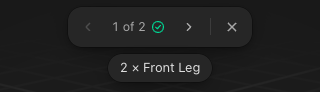
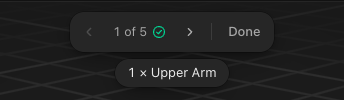
Leave Build Along with Done, like every other mode
Build Along's bar ended in a × titled Close, while Measure, Annotate,
Print, Sculpt, Sketch, Tries and a running Case are all left with Done
(Esc). The canvas bars' Done now comes from one IslandDone in the design
system, used by Measure, Annotate and Build Along, and the guides and the
Build Along help article say so.

diff --git a/src/design-system/FloatingIsland.tsx b/src/design-system/FloatingIsland.tsx
@@ -1,4 +1,6 @@
 import React from 'react';
+import { Button } from './Button';
+import type { TooltipSide } from './Tooltip';
 
 export interface FloatingIslandProps extends React.HTMLAttributes<HTMLDivElement> {
   children: React.ReactNode;
@@ -19,3 +21,24 @@ export const FloatingIsland: React.FC<FloatingIslandProps> = ({ children, classN
 };
 
 export const IslandDivider: React.FC = () => <div className="w-px h-5 bg-white/[0.1] mx-1 shrink-0" aria-hidden />;
+
+export const IslandDone: React.FC<{ onDone: () => void; tooltipSide?: TooltipSide; className?: string }> = ({
+  onDone,
+  tooltipSide = 'top',
+  className = '',
+}) => (
+  <>
+    <IslandDivider />
+    <Button
+      size="sm"
+      variant="ghost"
+      className={className}
+      onClick={onDone}
+      title="Done"
+      shortcut="Esc"
+      tooltipSide={tooltipSide}
+    >
+      Done
+    </Button>
+  </>
+);

diff --git a/src/components/build/BuildAlongBar.tsx b/src/components/build/BuildAlongBar.tsx
@@ -3,10 +3,9 @@ import {
   ChevronLeftIcon,
   ChevronRightIcon,
   CircleCheckIcon,
-  CloseIcon,
   FloatingIsland,
   IconButton,
-  IslandDivider,
+  IslandDone,
   Spinner,
 } from '../../design-system';
 import type { BuildAlong } from '../../workspace/useBuildAlong';
@@ -68,15 +67,7 @@ export const BuildAlongBar: React.FC<BuildAlongBarProps> = ({ buildAlong, active
             />
           </>
         )}
-        <IslandDivider />
-        <IconButton
-          size="sm"
-          title="Close"
-          shortcut="Esc"
-          tooltipSide="bottom"
-          icon={<CloseIcon className="w-4 h-4" />}
-          onClick={buildAlong.close}
-        />
+        <IslandDone onDone={buildAlong.close} tooltipSide="bottom" />
       </FloatingIsland>
       {!!step?.callout.length && (
         <ul className="flex flex-wrap justify-center gap-2 max-w-[720px]">

diff --git a/src/components/MeasureToolbar.tsx b/src/components/MeasureToolbar.tsx
@@ -3,10 +3,10 @@ import { fromFeetInches, heightsInFeet, toFeetInches } from '../three/viewport/m
 import type { FigurePlacements, MeasureKind } from '../three/viewport/types';
 import type { MeasureUnit } from '../types/robotics';
 import {
-  Button,
   FloatingIsland,
   IconButton,
   IslandDivider,
+  IslandDone,
   NumberInput,
   DogIcon,
   HumanIcon,
@@ -113,9 +113,6 @@ export const MeasureToolbar: React.FC<MeasureToolbarProps> = ({
         <HeightField heightMm={humanHeightMm} unit={unit} onChange={onHumanHeight} />
       </>
     )}
-    <IslandDivider />
-    <Button size="sm" variant="ghost" onClick={onDone} title="Done" shortcut="Esc" tooltipSide="top">
-      Done
-    </Button>
+    <IslandDone onDone={onDone} />
   </FloatingIsland>
 );

diff --git a/src/workspace/MarkBar.tsx b/src/workspace/MarkBar.tsx
@@ -1,9 +1,9 @@
 import type React from 'react';
 import {
-  Button,
   FloatingIsland,
   IconButton,
   IslandDivider,
+  IslandDone,
   DeleteIcon,
   EraserIcon,
   MarkerIcon,
@@ -87,18 +87,7 @@ export function MarkBar({ marks, onDone }: MarkBarProps) {
           <MarkActions marks={marks} />
         </>
       )}
-      <IslandDivider />
-      <Button
-        size="sm"
-        variant="ghost"
-        className="rounded-full"
-        onClick={onDone}
-        title="Done"
-        shortcut="Esc"
-        tooltipSide="top"
-      >
-        Done
-      </Button>
+      <IslandDone onDone={onDone} className="rounded-full" />
     </FloatingIsland>
   );
 }

diff --git a/docs/guide/build.md b/docs/guide/build.md
@@ -77,7 +77,7 @@ The Build tab (right panel) and the agent's build tools turn a model into someth
     - **Buy All** (`cart.ts`, `bomCart`) fills one Amazon cart from the list: `/gp/aws/cart/add.html` with numbered `ASIN.n` / `Quantity.n` pairs, in line order, for every line with units left to buy and an ASIN (a checked listing's, else a catalog or sourced product link on amazon.com). Quantity is packs of the units left to buy, rounded up: the checked listing's pack size, else one piece (a 1,000 g spool for filament), so 6 servos sold in pairs are 3 and 13 screws sold by the hundred are 1. A line with no ASIN goes to its store instead: a checked or sourced listing elsewhere, else the list price's store page, grouped under the store's host name below Buy All, one item per line, since stores take no shared cart link. Only https links count, an ASIN must pass `parseAsin`, and the cart is always built on amazon.com, so a forged ASIN or a lookalike host never reaches it (§0h). Lines left with no link keep their row link (an Amazon search). Supplies join the cart only when they have a product link (the ones the agent sources); a catalog supply's search stays a search. Buy All is in ⌘K too (listed while the cart has an ASIN). It opens through `openLink` (`utils/openLink.ts`), the app's one external-link path: the system browser on desktop, a new tab in the web demo. No account and no affiliate tag.
   - **Build guide** (`GuideSection`, `src/guide/`), after the bill of materials: a step-by-step assembly PDF, made with Make Guide (off until the scene has built parts). Making one runs in a worker (`guide.worker.ts`; `generateGuide` packs the parts, the worker measures contacts, plans, draws and writes the HTML, the main thread saves the PDF), so the app stays responsive and you can keep working; a toast with Open says when it's done. While it runs, the card keeps its cover (the new cover replaces it as soon as it's drawn), shows the step being drawn, the time left once it can be estimated, and Stop. A made guide offers Open; an out-of-date one says so in amber and adds Update. ⌘K has the same three as Make Build Guide, Open Build Guide and Update Build Guide (§11). There's no Regenerate: a guide reads Out of date whenever a redraw could come back different. That's when its fingerprint changes (`guideFingerprint`: the title, material, infill as printed on the front pages, built parts, joints and `GUIDE_VERSION`), or when its order search stopped at the 20 s limit (`orderTimedOut` on the record), so a later run may check the steps that say “Order not checked”. Bump `GUIDE_VERSION` in any change to the planner, the drawings or item names that changes what a made guide shows, so every guide redraws. Every scene with built parts keeps a current guide (`useGuideAutoUpdate`, Settings ▸ Build ▸ Build guide ▸ Update automatically, on by default): 15 s after the guide goes out of date, while no agent in the scene is working, it makes or updates the guide quietly, with no toast on success or failure. Background runs go one at a time across tabs. Stop, a failed run or another timed-out order search leaves that version alone until the scene changes again; opening another scene in the tab cancels a run. Steps follow the order `check_assembly` proves (`provenOrder.ts`); parts the planner couldn't place come first by the heuristic, and their steps say “Order not checked”.
     - **Open** (the cover, the Open button, the toast, the agent's guide link) shows the guide in the app (`GuideViewer`), not the system PDF viewer. The HTML the PDF is printed from is kept beside it (`library/guides/<id>.html`, read with `guide:html`), parsed into pages, each in its own shadow root with one shared stylesheet (`guide/viewer/`), and prefetched at idle. A guide with no saved HTML is regenerated, then opened; Open PDF and Show in Finder regenerate a PDF that was moved or deleted the same way (`withPdf`, which checks `guide:exists` first), so no error sends anyone to a button; if the system still can't open or show the PDF, a toast says so. The cover thumbnail flies into the first page on a spring (`springEasing.ts` turns a spring into a CSS `linear()` easing), keeping the thumbnail's tilt, while the next pages rise in behind it; closing flies the page nearest the centre back into the thumbnail. Pages fit the window height; pinch, ⌘-scroll or − / + / 0 zoom about the pointer, ← / → and the toolbar's arrows turn pages, Esc or the × at the top right closes. The toolbar floats at the bottom: Previous page, “3 of 60”, Next page, Zoom out, Zoom in, Build Along, Show in Finder, Open PDF.
-    - **Build Along** (`useBuildAlong`, `guide/buildAlong.ts`, `build/BuildAlongBar.tsx`) plays the guide on the canvas one step at a time. It opens from the viewer's toolbar and ⌘K (listed while the scene has built parts). It reads the plan the PDF was drawn from: `useBuildGuide` keeps the last generated `GuidePlan` with its `guideFingerprint`, and `currentPlan` regenerates first when the scene has changed since (the bar shows the run's progress meanwhile). There is no second planner. `buildAlongSteps` turns each step into what the canvas shows: every part placed so far plus the step's context (so the shown set only grows and ends at every built part), the step's moves and arrows, its callout counts with the PDF's item names (“4 × M3 × 6 Socket Head Screw”), and a label on each servo the step adds, with its joint's name and bus ID from `servoLayout` (“Shoulder lift, ID 2”), the numbering the joint map and Operate's Connect use. ← / → step, orbit stays free, Esc closes and puts the camera back where it was; parts, visibility and selection are never edited. While it's open the workspace's other keys are off.
+    - **Build Along** (`useBuildAlong`, `guide/buildAlong.ts`, `build/BuildAlongBar.tsx`) plays the guide on the canvas one step at a time. It opens from the viewer's toolbar and ⌘K (listed while the scene has built parts). It reads the plan the PDF was drawn from: `useBuildGuide` keeps the last generated `GuidePlan` with its `guideFingerprint`, and `currentPlan` regenerates first when the scene has changed since (the bar shows the run's progress meanwhile). There is no second planner. `buildAlongSteps` turns each step into what the canvas shows: every part placed so far plus the step's context (so the shown set only grows and ends at every built part), the step's moves and arrows, its callout counts with the PDF's item names (“4 × M3 × 6 Socket Head Screw”), and a label on each servo the step adds, with its joint's name and bus ID from `servoLayout` (“Shoulder lift, ID 2”), the numbering the joint map and Operate's Connect use. ← / → step, orbit stays free, Done at the bar's end (`IslandDone`, like Measure's and Annotate's bars) or Esc closes and puts the camera back where it was; parts, visibility and selection are never edited. While it's open the workspace's other keys are off.
     - **Letters on parts**: with Label parts on (§8f), each printed part comes off the printer with its guide letter debossed on a hidden face. `partLetters` reads the same `GuidePlan` as Build Along, through `currentPlan`, so a letter on a part is always the one the PDF and Build Along call it.
     - **Parts ready** (`readySteps` in `print/tracker.ts`): a step whose printed parts (not set to Don't print) all count as printed in the Prints tracker (§8f) shows a done mark: the green circle check beside “3 of 12” in Build Along (the toolbar's `data-ready`), and the PDF's own check mark (`checkMark`, the done page's mark) beside the step number in the viewer. Steps with no printed part never show it. The viewer reads the step parts the record saved (`BuildGuideRecord.stepParts`, from the plan the pages were drawn from) and finds each step by the `data-step` index on its number; guides made before it have no marks. The marks follow the tracker live and are never printed in the PDF.
     - Regenerating is incremental: the worker keeps the guide's renderer for 2 minutes after a run (at most 2), syncing only parts whose identity changed, and caches contacts and every drawing (cover, item thumbnails, modules, steps) by the identities of the parts it shows (`GuideCache`, keys sent from the main thread's `WeakMap`). An unchanged scene regenerates in about 2 s; an edit redraws only the steps that show the changed parts.

diff --git a/site/content/help/the-design-agent.md b/site/content/help/the-design-agent.md
@@ -26,29 +26,29 @@ covers:
   - src/workspace/applyAgentOps.ts
 ---
 
-Describe a robot or show the agent a photo, and it models the robot in your scene with real servos, boards and screws you can buy.
+Describe a robot or show the agent a photo, and it models the robot in your scene using real servos, boards, and screws that you can buy.
 
-The agent is Claude Code, Codex or Gemini CLI. It runs on your computer in the desktop app and signs in with your own login. To use it from the web studio, download the desktop app.
+The agent is Claude Code, Codex, or Gemini CLI. It runs on your computer inside the desktop app and signs in with your own login. To use the agent from the web studio, download the desktop app.
 
 ## What it does
 
-The agent builds in the open scene, so you can watch it work. It reads your words, photos, sketches and files, and looks up the robot's published model if one exists. Before it shapes any part, it plans where the joints go. Then it blocks out the robot, models each part as code, and checks its work.
+The agent builds in the open scene, so you can watch it work. It reads your words, photos, sketches, and files, and looks up the robot's published model if there is one. It plans where the joints go before it shapes any part. Then it blocks out the robot, models each part as code, and checks its work.
 
-The agent picks parts from the same catalog as the **Parts** view, with their real sizes, mounting holes and prices. Parts you [own](/help/count-the-parts-you-already-own) come first. If the catalog doesn't have a part, the agent can add one it found on the web, and the bill of materials lists it as Added by Agent.
+The agent picks parts from the same catalog as the **Parts** view, with their real sizes, mounting holes, and prices. Parts you [own](/help/count-the-parts-you-already-own) come first. When the catalog doesn't have a part, the agent can add one it found on the web, and the bill of materials lists it as Added by Agent.
 
-The agent can pose and animate the robot, run it in the simulation, write and run a Case, write a Routine, and teach the robot a skill. For example:
+The agent can also pose and animate the robot, run it in the simulation, write and run a Case, write a Routine, and teach the robot a skill. For example:
 
-- Ask it to change how a ready Motor Kit skill moves. It keeps the change if Arena passes it and drops it if not.
+- Ask it to change how a ready Motor Kit skill moves. If Arena passes the change, the agent keeps it. Otherwise, the agent drops it.
 - For a Routine, it proves each switch between skills and names any that fell.
-- With a Case and two open scenes, it tells you which robot passes more often.
-- Ask what happened in a try. It reads the try's recording and answers with times and values.
-- Ask which servo to buy. It runs the Case on each catalog version and answers with passes, cost and mass.
+- With a Case and two scenes open, it tells you which robot passes more often.
+- Ask what happened in a try, and the agent reads the try's recording and answers with times and values.
+- Ask which servo to buy, and the agent runs the Case on each catalog version and answers with passes, cost, and mass.
 
-Tell the agent where an arm must reach and what it carries, and it sizes the arm's links and servos first. For a leg or finger, give it the path to trace, and it fits a four-bar linkage to that path. If you ask for fewer parts, the agent merges printed parts bolted together on one link into a single print.
+Tell the agent where an arm must reach and what it carries, and it sizes the arm's links and servos first. For a leg or finger, give it the path to trace, and it fits a four-bar linkage to that path. When you ask for fewer parts, the agent merges printed parts that are bolted together on one link into a single print.
 
-Say what you want to do with a robot, such as play a game on a gamepad, and the agent builds a Case for it. The Case opens running, as in [Run a Case](/help/run-a-case). In a [scanned room](/help/import-a-scanned-room), the agent aims the Case at a door or a piece of furniture you name, such as under the table.
+Tell the agent what you want to do with a robot, such as play a game on a gamepad, and it builds a Case for it. The Case opens already running, as in [Run a Case](/help/run-a-case). In a [scanned room](/help/import-a-scanned-room), the agent aims the Case at a door or a piece of furniture you name, such as under the table.
 
-If the agent needs a control the Case's panels don't have, like a joystick or a piano, it draws one as a code panel. If that code moves an object, such as a target to whack, the agent marks the object as movable. After each write, it reads the panel's errors and a capture of the window, then fixes what broke.
+When the agent needs a control that the Case's panels don't have, like a joystick or a piano, it draws one as a code panel. If that code moves an object, such as a target to whack, the agent marks the object as movable. After each write, the agent reads the panel's errors and a capture of the window, then fixes anything that broke.
 
 Name a movement, such as a wave, and the Case reacts to it as a gesture. If no built-in gesture matches, the agent asks you to teach it. For the steps, see [Build a Case app with the agent](/help/build-a-case-app-with-the-agent).
 
@@ -64,15 +64,15 @@ Matching the silhouette in a photo matters less than any of these.
 
 ## How it checks its work
 
-After each edit, the agent sees the same Checks as the **Build** tab. It never passes a check by narrowing a joint's range, hiding a part, deleting a part or editing a Case. If a check seems wrong, it tells you.
+After each edit, the agent sees the same Checks as the **Build** tab. It never makes a check pass by narrowing a joint's range, hiding a part, deleting a part, or editing a Case. If a check seems wrong, the agent tells you.
 
-If an edit adds a blocker, the agent follows up on its own, up to twice per message. The follow-up shows in the chat as “Fix what the last change added: 2 problems.” above the new problems. To turn this off, go to **Settings** ▸ **Build**.
+When an edit adds a blocker, the agent follows up on its own, up to twice per message. The follow-up appears in the chat as “Fix what the last change added: 2 problems.” above the new problems. To turn this off, go to **Settings** ▸ **Build**.
 
-If the scene has Cases, the agent runs each one and isn't done until they all pass. For the steps, see [Make a Case pass with the agent](/help/make-a-case-pass-with-the-agent).
+When the scene has Cases, the agent runs each one and isn't done until they all pass. To learn how, see [Make a Case pass with the agent](/help/make-a-case-pass-with-the-agent).
 
 ## What you keep control of
 
-Each change the agent makes is one undo step. To take changes back, see [Undo what the agent changed](/help/undo-agent-changes).
+Each change the agent makes is a single undo step. To take changes back, see [Undo what the agent changed](/help/undo-agent-changes).
 
 While the agent works, you can steer it, queue your next request, or stop it. Your edits come first, and the agent never blocks you from changing a part.
 

diff --git a/site/content/help/troubleshoot-emulated-robot.md b/site/content/help/troubleshoot-emulated-robot.md
@@ -28,11 +28,11 @@ covers:
   - electron/robot/robotLink.mjs
 ---
 
-If Operate won't let you climb a rung, or the emulated robot stops, find the message or missing button below.
+If Operate won't let you climb a rung, or the emulated robot stops, look for the message you see or the button you can't find.
 
 ## Connect Emulated Robot is missing
 
-Operate needs a joint that moves. If the scene has none, Operate shows "No robot." If it has more than 32 moving joints, Operate shows nothing to connect.
+To show **Connect Emulated Robot**, Operate needs at least one moving joint and no more than 32. If the scene has no moving joints, Operate shows "No robot." If it has more than 32, Operate shows nothing to connect.
 
 **Note:** Operate isn't available in the browser version of Basecase.
 
@@ -44,7 +44,7 @@ To add a robot to the scene:
 
 ## "This copy of Basecase can’t run robots"
 
-Your copy of Basecase is missing the part that runs robots, so Connect can't start.
+Your copy of Basecase is missing the part that runs robots, so Connect can't start. Install Basecase again:
 
 1. Quit Basecase.
 2. Download Basecase again from [Install Basecase](/help/install-basecase), and replace the copy you have.
@@ -52,12 +52,12 @@ Your copy of Basecase is missing the part that runs robots, so Connect can't sta
 
 ## "Load a policy first"
 
-**Rehearse** and every rung above it need a trained policy. You'll see this message if the scene in front has no policy the robot can take.
+**Rehearse** and every rung above it need a trained policy. This message means the scene in front has no policy the robot can take.
 
 Basecase gives the robot the newest skill that's ready, or the newest policy that's up to date. It skips:
 
 - Policies marked **Out of date**. To fix one, see [Retrain an out-of-date policy](/help/retrain-an-out-of-date-policy).
-- Skills that replay an animation. These have no policy to give the robot.
+- Skills that replay an animation, because they have no policy to give the robot.
 
 To train a policy:
 
@@ -67,7 +67,7 @@ To train a policy:
 
 ## "A fault is still active"
 
-When a fault stops the motors, the daemon shows "A fault is still active. Go back to Look and clear it first." The fault stays until you clear it.
+A fault stops the motors and stays active until you clear it. While it's active, the daemon shows "A fault is still active. Go back to Look and clear it first."
 
 1. Read the fault shown under the servo count, and fix the problem it names.
 2. Click **Look** under **Ladder**.
@@ -75,16 +75,16 @@ When a fault stops the motors, the daemon shows "A fault is still active. Go bac
 4. Click **Set Up**.
 5. Click **Test**.
 
-From the moment of the fault until you climb the ladder again, the simulation sends the robot no commands.
+The simulation sends the robot no commands from the moment of the fault until you climb the ladder again.
 
-If the robot is an arm, you can click **Replay in Sim** under the fault to play the 20 seconds before it in the simulation. Learn how to [replay a robot fault in the simulation](/help/replay-a-robot-fault-in-the-simulation).
+If the robot is an arm, you can click **Replay in Sim** under the fault to play the 20 seconds before the fault in the simulation. Learn how to [replay a robot fault in the simulation](/help/replay-a-robot-fault-in-the-simulation).
 
 ## "The app stopped talking to the robot"
 
-The full message is "The app stopped talking to the robot, so the robot is holding still." The app checks in with the robot daemon every 100 ms. You'll see this message when it misses a check-in, which can happen when the computer is under heavy load or goes to sleep.
+The full message is "The app stopped talking to the robot, so the robot is holding still." The app checks in with the robot daemon every 100 ms and shows this message when it misses a check-in. The app can miss a check-in if your computer is under heavy load or goes to sleep.
 
 1. Click **Look** under **Ladder**.
-2. If **Clear Fault** shows, click it.
+2. If you see **Clear Fault**, click it.
 3. Click **Set Up**.
 4. Click **Test**.
 

diff --git a/site/content/help/run-a-trained-skill-on-the-emulated-robot.md b/site/content/help/run-a-trained-skill-on-the-emulated-robot.md
@@ -26,31 +26,31 @@ covers:
   - electron/robot/intentPacer.mjs
 ---
 
-You can play a trained skill or policy in the simulation while the emulated robot is in Test, then watch its servos follow along through the safety layer.
+With the emulated robot in Test, you can play a trained skill or policy in the simulation and watch the robot's servos follow it through the safety layer.
 
-The robot copies the app's simulation instead of running the policy itself. Basecase still sends it the scene's newest ready skill or up-to-date policy. That opens **Rehearse** and the rungs above it, where the robot also follows the simulation.
+The robot follows the simulation running in the app and doesn't run the policy itself. Basecase still sends the robot the scene's newest ready skill or up-to-date policy. That lets you climb to **Rehearse** and the rungs above it, where the robot also follows the simulation.
 
-1. Connect the emulated robot and climb to **Test**. For the steps, see [Connect an emulated robot](/help/connect-an-emulated-robot).
+1. Connect the emulated robot and climb to **Test**, following [Connect an emulated robot](/help/connect-an-emulated-robot).
 2. Click **Simulate** at the top of the right panel.
-3. Under **Train**, click **Try** on a ready skill. For **Walk**, click **Drive** instead.
+3. Under **Train**, click **Try** on a ready skill, or **Drive** for **Walk**.
 4. Watch the servo angles in **Operate** change as the simulated robot moves.
 5. To stop the motors, click **Stop** in **Operate**.
 
-To run a trained policy, choose it under **Control** in place of step 3. A Case try or a Routine run streams to the robot the same way.
+To run a trained policy, skip step 3 and choose the policy under **Control**. When you try a Case or run a Routine, the app streams it to the robot the same way.
 
 ## What the safety layer changes
 
-In **Test**, the safety layer holds each joint to 30% torque and 0.5 rad/s. A goal moves at most 0.02 rad every 20 ms and stays at most 0.25 rad ahead of the servo's measured position. Expect a fast skill to look slower on the servos than on the canvas.
+In **Test**, the safety layer limits each joint to 30% torque and 0.5 rad/s. A goal moves at most 0.02 rad every 20 ms and stays no more than 0.25 rad ahead of the servo's measured position. A fast skill looks slower on the servos than on the canvas because of these limits.
 
-The app sends the robot the simulation's joint targets as often as every 25 ms. If something goes wrong:
+The app sends the simulation's joint targets to the robot as often as every 25 ms. If something goes wrong:
 
-- After a fault, the app sends no targets until you climb the **Ladder** again.
-- A joint the simulation doesn't have holds where it is.
-- If the app stops sending for 100 ms, the robot stops: an arm holds, and a legged robot stands still.
+- After a fault, the app stops sending targets until you climb the **Ladder** again.
+- A joint missing from the simulation holds where it is.
+- If the app stops sending for 100 ms, the robot stops. An arm holds where it is, and a legged robot stands still.
 
 ## Run it outside Basecase
 
-To run the robot without Basecase, choose **Export** ▸ **Robot Package**. The package holds the MuJoCo model, a URDF, the joint map and the scene's policies. Each policy comes with a `spec.json` that lists its inputs and outputs.
+To run the robot without Basecase, choose **Export** ▸ **Robot Package**. The package holds the MuJoCo model, a URDF, the joint map and the scene's policies, each with a `spec.json` file that lists its inputs and outputs.
 
 **Note:** The package leaves out skills you trained in **Train**.
 

diff --git a/site/content/help/open-a-try-from-any-scene.md b/site/content/help/open-a-try-from-any-scene.md
@@ -26,30 +26,30 @@ covers:
   - electron/library/tryStore.mjs
 ---
 
-You can open any try you've recorded from any scene, then step through it on the timeline.
+The Library keeps every try you record. You can open a try from any scene and step through it on the timeline.
 
 1. Click **Library** in the view rail on the left.
 2. Under **Tries**, click a robot.
 
 ![The Library with a robot and its two tries under Tries](/help/open-a-try-from-any-scene/library.png)
 
-3. Tries fills the canvas and shows every try, grouped by robot with the newest first. Each tile shows the Case, whether the try Passed or Missed, and how long it ran. An imported try shows its task and the file or repo it came from instead. Click a try to open it.
+3. Tries fills the canvas and shows every try, grouped by robot, with the newest first. Each tile shows the Case, whether the try Passed or Missed, and how long it ran. An imported try shows its task and the file or repo it came from instead. To open a try, click it.
 
 ![Tries over the canvas with a try from each of two scenes](/help/open-a-try-from-any-scene/tries.png)
 
-4. The try plays through its Case's console, and the try timeline appears under the canvas. Tries stays hidden until you close the try. To step through the try, follow the steps in [Play a try through its console](/help/play-a-try-through-its-console).
+4. The try plays through its Case's console, and the try timeline appears under the canvas. Tries stays hidden until you close the try. To step through the try, see [Play a try through its console](/help/play-a-try-through-its-console).
 
 ![A try from Tries playing through the Touch the Dots console, with its timeline under the canvas](/help/open-a-try-from-any-scene/timeline.png)
 
 5. To stop playing, click **Done** or press [[Esc]]. Tries comes back.
 6. To leave Tries, click **Done** or press [[Esc]] again.
 
-Or open Tries from the command menu. Press [[⌘K]], then choose **Show Tries**.
+To open Tries from the command menu, press [[⌘K]], then choose **Show Tries**.
 
 The search at the top of the Library also finds tries. It matches a try's Case or task, its robot, the Variation or Real label on its tile, and the file or repo an imported try came from.
 
-To delete tries, select them, press [[⌫]], then click **Delete**. Hold [[⌘]] or [[⇧]] while you click to select more than one try. Deleting a try also deletes any Variations that came from it.
+To delete tries, select them and press [[⌫]], then click **Delete**. To select more than one try, hold [[⌘]] or [[⇧]] while you click. Deleting a try also deletes any Variations that came from it.
 
-**Note:** A try opens on the timeline only if it fits the robot in the open scene. If a try's Case isn't in the open scene, or it's an imported try with no Case, the try plays through the default cards, titled with the robot's name. Clicking a real try selects it but doesn't open the timeline.
+**Note:** A try opens on the timeline only if it fits the robot in the open scene. If the try's Case isn't in the open scene, or it's an imported try with no Case, the try plays through the default cards, titled with the robot's name. Clicking a real try selects it but doesn't open the timeline.
 
 If you recorded tries before the Library held them, Basecase moves them into the Library the first time you open their scene. On a Mac, Basecase stores tries in `library/tries` inside `~/Library/Application Support/Basecase`, with one folder per try.

diff --git a/docs/guide/toolbar-and-settings.md b/docs/guide/toolbar-and-settings.md
@@ -15,7 +15,7 @@ Part of the Basecase guide. [AGENTS.md](../../AGENTS.md) holds the rules every c
     - **Drawing:** `three/viewport/markLayer.ts` draws marks outside `stage.overlays`, so the agent's `look` / `compare` renders show them, and frames those renders to include them (not isolated or silhouette views). Labels are sprites (`markLabel.ts`: a pill in the mark's colour, constant pixel size, above the top centre of the stroke on screen, `topCenterOnScreen`), so they're in the renders too. The selection outline (Figma blue) is in `stage.overlays`, so renders never show it.
     - Marks are scene data (`project.marks`, saved with the scene) on the undo timeline; Delete Marks is also in ⌘K and the canvas menu. The agent sees them in `get_scene` (`marks`: colour name, label, parts circled, bounds, `seenFrom`), and a message sent while marks exist lists each one's colour, label and parts (`agentMarks.ts`). Custom colours are named by hue for the agent (“purple”).
   - Measurements are a view overlay (`three/viewport/measureTool.ts`, pure math in `measureMath.ts`): not parts, not undoable, never saved, exported or captured (they live in `stage.overlays`, which captures hide). Hover picking runs once per frame; the label is positioned after each render (`RenderLoop.afterRender`); the gizmo detaches while measuring.
-  - **Measure toolbar** (`MeasureToolbar`): while measuring, the bottom toolbar is swapped for one with **Ruler** (the default), **Human** and **Dog**, then **Done** on the right (`Esc`), the same exit as Annotate's bar and Print mode. State lives in `workspace/useMeasure.ts`; leaving Measure resets it to Ruler and clears the figures.
+  - **Measure toolbar** (`MeasureToolbar`): while measuring, the bottom toolbar is swapped for one with **Ruler** (the default), **Human** and **Dog**, then **Done** on the right (`Esc`, `IslandDone`), the same exit as Annotate's bar, Build Along's bar and Print mode. State lives in `workspace/useMeasure.ts`; leaving Measure resets it to Ruler and clears the figures.
     - **Human / Dog** are scale figures: a light-blue ghost follows the pointer (on a part's surface or the floor) and a click places it there, facing front (+Z); clicking again moves it. One of each. The ruler line stays while they're placed.
     - Once the human is placed, their height joins the toolbar, with no label or tooltip since the units beside the selected Human say what it is: two fields (ft and in) where people say heights in feet (US, UK, Liberia, Myanmar, from `navigator.language`) or with Imperial units, otherwise cm (`heightsInFeet`). A US engineer measures parts in mm but still says a person is 5 ft 9 in, so this follows the region, not the Measure units. Extra or negative inches carry into feet (`toFeetInches` / `fromFeetInches` in `measureMath.ts`). It defaults to 175.3 cm, 5 ft 9 in (US adult men, CDC NHANES 2015–2018). The dog is a Labrador Retriever, 57 cm at the withers, and keeps its real size.
     - Figures are view overlays like measurements (`three/viewport/scaleFigures.ts`). They're drawn as one clean translucent layer: a depth-only pass first, then the fill with `depthWrite` off, so overlapping limbs never stack up brighter.

diff --git a/docs/guide/design-system.md b/docs/guide/design-system.md
@@ -25,7 +25,7 @@ Use these primitives. Never hand-roll a styled `<button>` or input when one fits
 - `DropOverlay` (`icon`, `label`): what a drop will do, while files are dragged over a card that takes them: a dashed accent frame 8px inside the card and a matte pill with the icon and a “Drop to …” label, never a list of the file types the person is already holding. The canvas (“Drop to import”, “Drop to add a reference image”) and the agent panel (“Drop to attach”) use it; a drop zone inside a panel (Import SVG's) takes the same accent border and fill instead.
 - `Divider`: full-width hairline that cancels the container's `--pad-x` (§4)
 - `MetaLine` (`items`, falsy ones skipped): a line of facts separated by 12px of space, never a glyph (§3b-16). The last item truncates. `SpecText` (`components/PartDetails.tsx`) renders a `SpecValue` list one fact per line.
-- `FloatingIsland` + `IslandDivider`, `PopoverMenu` + `MenuItem` (`detail`: muted text on the right; `active`: the keyboard highlight, as in the composer's slash menu) / `MenuLabel` / `MenuDivider` / `MenuBack` (a chevron and the view's name at the top of a menu that has swapped to a sub-list, as in the composer's + ▸ Commands; clicking it returns), `ContextMenu` (at least 240px, or its `minWidth`, as in the chat's 160px message menu; grows to fit its longest label + shortcut, up to 320px)
+- `FloatingIsland` + `IslandDivider` + `IslandDone` (a divider, then a ghost Done with Esc in its tooltip: how every canvas bar for a mode ends, in Measure, Annotate and Build Along), `PopoverMenu` + `MenuItem` (`detail`: muted text on the right; `active`: the keyboard highlight, as in the composer's slash menu) / `MenuLabel` / `MenuDivider` / `MenuBack` (a chevron and the view's name at the top of a menu that has swapped to a sub-list, as in the composer's + ▸ Commands; clicking it returns), `ContextMenu` (at least 240px, or its `minWidth`, as in the chat's 160px message menu; grows to fit its longest label + shortcut, up to 320px)
 - `CODE_PANEL_TOKENS` (`codeTokens.ts`): the studio's greys (`--bc-bg`, `--bc-canvas`, `--bc-panel`, `--bc-raised`, `--bc-surface`, `--bc-line`), text (`--bc-ink`, `--bc-ink-2`, `--bc-ink-3`), the accent (`--bc-accent`, `--bc-accent-hover`), `--bc-red`, `--bc-green`, fonts (`--bc-font`, `--bc-mono`), type sizes (`--bc-text` 14px, `--bc-text-control` 13px, `--bc-text-small` 12px), `--bc-control` (32px), radii (`--bc-radius` 12px, `--bc-radius-control` 8px) and spacing (`--bc-gap`, `--bc-inset`), from `THEME_COLORS` and `LAYOUT`. A Case's code panels (§8h) get them as CSS variables, so code the agent writes can match the app without importing anything.
 - `CURSORS` (`cursors.ts`): the canvas cursors (§12); `ARROW_PATH` is shared with `AgentCursor`.
 - **Icons** are all our own (no icon dependency). Every one draws through `Glyph` (`glyph.tsx`): its strokes go into a mask and one `currentColor` rect is painted through it, so overlapping strokes never double up at translucent colours. Each takes `className`, `style` and `strokeWidth` (2 by default; Plus, Close and the chevrons are drawn at 2.5 through their spec's `weight`, since thin small controls read too light).

diff --git a/docs/guide/menus-and-shortcuts.md b/docs/guide/menus-and-shortcuts.md
@@ -31,7 +31,7 @@ Part of the Basecase guide. [AGENTS.md](../../AGENTS.md) holds the rules every c
   - Placement and view: F floor, S stack, Z zoom, 1–4 views, ⇧I reference images, ⇧V camera views. Hold ⌘ (Ctrl on Windows) while dragging a part or a tile to move it without snapping to ports (§12), and Shift to move it off the grid.
   - Edit: ⌘Z / ⇧⌘Z (or ⌘Y), ⌘C / ⌘X / ⌘V, ⌘D, ⌫, ⌘A select all, ⌘G / ⇧⌘G group, Esc (ends a Set Up Servos walk, §8k → closes draft → thread → comment mode → measurement → Measure tool → Annotate → picking a joint axis → Sculpt, or Sketch and Import SVG while they hold nothing to lose → selection).
   - A running Case (§8h): Esc leaves (the first Esc stops driving), ⌘K and ⌘, work, and ⌘Z, ⌘⇧Z, ⌘Y and ⌘I work even while driving (undo and redo the agent's code writes and stop at any other edit, show or hide the agent); no other editing or panel key runs. In ⌘K there, every command but Drive, Stop Driving, Start Over, Try ⟨Case⟩, Export Dataset, Publish to Hugging Face, Drive with Camera, Pair Phone and Unpair Phone leaves the running Case first.
-  - Build Along (§8b): ← / → previous and next step, Esc closes; the workspace's other keys are off while it's open.
+  - Build Along (§8b): ← / → previous and next step, Esc closes, like the bar's Done; the workspace's other keys are off while it's open.
   - Sketch plane (while it has focus, §8): typing a number with a shape started opens its length (a line, then Tab for the angle), width (a rectangle, then Tab for the height) or diameter (a circle); Enter places it, Esc closes the fields, then cancels the shape, then clears the selection, then drops the tool, then leaves Sketch if nothing is drawn. With one segment selected, typing a number or Enter edits its dimension. ⌫ deletes the selection. ⌘Z / ⇧⌘Z undo and redo sketch edits; the plane owns its edits through `data-own-edits`, and a reopened sketch's undo is the scene's.
   - Routines view (while it has focus, §8j): ⌫ deletes the selected step, Esc clears the selection, ↑ ↓ Home End move through the step menu. ⌘↩ runs the open Routine whenever the Routines view is open. Routine edits are on the scene's undo timeline, so ⌘Z / ⇧⌘Z and the title bar's Undo and Redo reach them wherever focus is. The view owns only the Edit menu's Delete, Duplicate and Select All (`data-own-edits="delete duplicate select-all"`); `useMenuCommands` sends an owner a menu command only when its `data-own-edits` names it, or names nothing (the sketch plane and the agent's sketch pad own every edit command).
   - Try timeline (while it's open, §8h; the table's `timeline` scope, handled by `timelineKeyHandlers` in `useTimelineKeys`): ← → one frame, ⇧← ⇧→ one second, Home End, Space play and pause, [ ] slower and faster (0.25× to 4×), Esc closes it (and keeps the selection). ⇧-drag on a lane loops that range; a ⇧-click drops it. While a try plays, its Case's console shows (§8h Playback), and Esc there closes the playback before it leaves a running Case.
